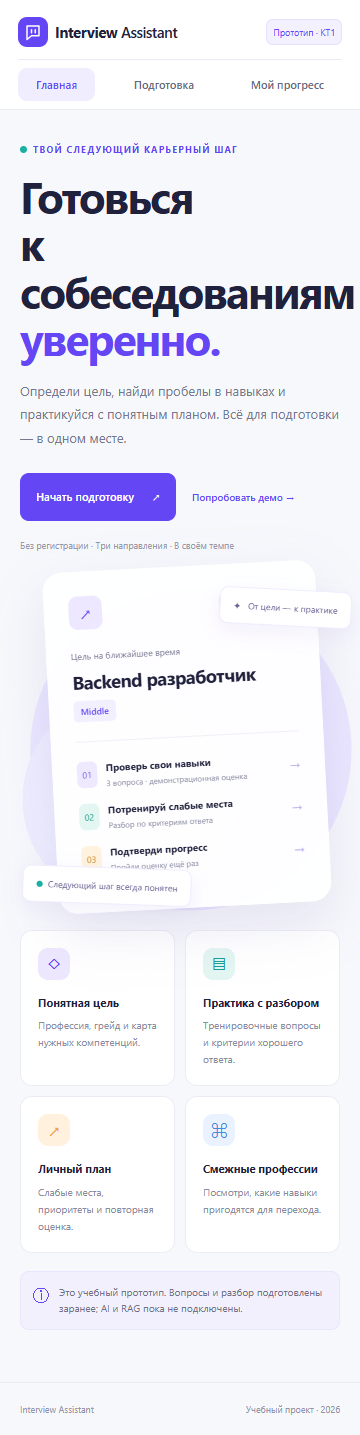
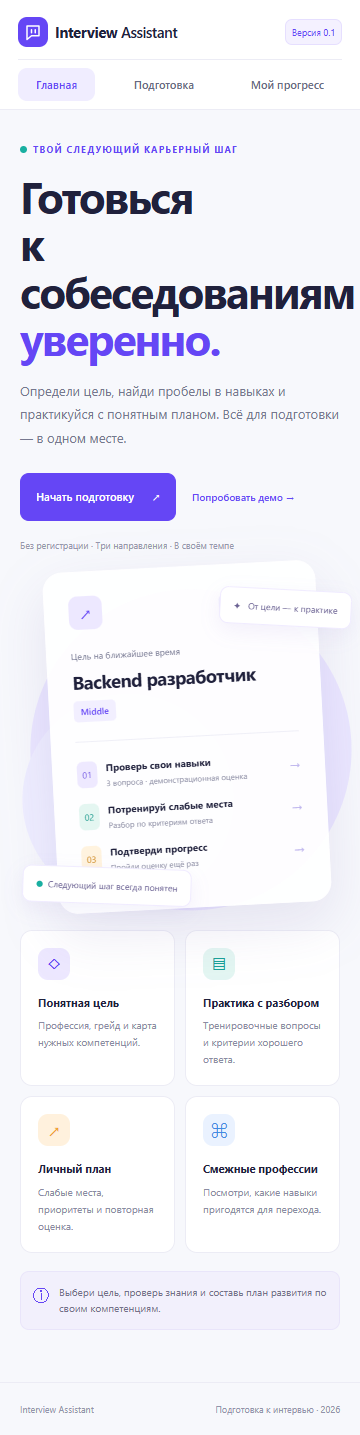
chore: update product wording, team roles and checkpoint metadata

diff --git a/code/frontend/src/app.js b/code/frontend/src/app.js
@@ -26,7 +26,7 @@ function button(label, action, extra = '', secondary = false) {
 function heading(kicker, title, description, action = '') {
   return `<div class="page-heading"><div><p class="eyebrow">${kicker}</p><h1>${title}</h1><p class="muted">${description}</p></div>${action}</div>`;
 }
-function demoNotice(text = 'Это учебный прототип. Вопросы и разбор подготовлены заранее; AI и RAG пока не подключены.') {
+function demoNotice(text = 'Выбери цель, проверь знания и составь план развития по своим компетенциям.') {
   return `<div class="notice"><span aria-hidden="true">ⓘ</span><p>${text}</p></div>`;
 }
 function ring(value, caption = 'демо-результат') {
@@ -36,8 +36,8 @@ function bar(score) { return `<div class="bar" aria-hidden="true"><span style="w
 function shell(content, route) {
   const home = route === 'home';
   const active = route === 'training' || route === 'assessment' ? 'modes' : route;
-  app.innerHTML = `<header class="topbar"><a class="brand" href="#home"><img src="./public/favicon.svg" alt="" width="34" height="34"/><span>Interview<span class="brand-light"> Assistant</span></span></a><nav class="topnav" aria-label="Основная навигация"><a href="#home" ${home ? 'aria-current="page"' : ''}>Главная</a><a href="#profile" ${route === 'profile' ? 'aria-current="page"' : ''}>Подготовка</a><a href="#progress" ${route === 'progress' ? 'aria-current="page"' : ''}>Мой прогресс</a></nav><span class="demo-badge">Прототип · КТ1</span></header>
-    <div class="workspace ${home ? 'landing' : ''}">${home ? '' : `<aside class="sidebar"><a class="profile-link" href="#profile"><span class="avatar">Я</span><span><strong>Мой профиль</strong><small>${currentProfile().short} · ${state.profile.grade}</small></span><span aria-hidden="true">↗</span></a><nav aria-label="Разделы подготовки">${nav.map(([id, label, icon]) => `<a href="#${id}" ${active === id ? 'aria-current="page"' : ''}><span aria-hidden="true">${icons[icon]}</span>${label}</a>`).join('')}</nav><div class="sidebar-note"><span class="status-dot"></span>Маленькие шаги.<br/>Понятный прогресс.</div></aside>`}<main id="main" tabindex="-1">${storageWarning ? '<div class="notice warning">Браузер не разрешил сохранить данные. Сценарий работает до закрытия страницы.</div>' : ''}${content}</main></div><footer>Interview Assistant <span>Учебный проект · 2026</span></footer>`;
+  app.innerHTML = `<header class="topbar"><a class="brand" href="#home"><img src="./public/favicon.svg" alt="" width="34" height="34"/><span>Interview<span class="brand-light"> Assistant</span></span></a><nav class="topnav" aria-label="Основная навигация"><a href="#home" ${home ? 'aria-current="page"' : ''}>Главная</a><a href="#profile" ${route === 'profile' ? 'aria-current="page"' : ''}>Подготовка</a><a href="#progress" ${route === 'progress' ? 'aria-current="page"' : ''}>Мой прогресс</a></nav><span class="demo-badge">Версия 0.1</span></header>
+    <div class="workspace ${home ? 'landing' : ''}">${home ? '' : `<aside class="sidebar"><a class="profile-link" href="#profile"><span class="avatar">Я</span><span><strong>Мой профиль</strong><small>${currentProfile().short} · ${state.profile.grade}</small></span><span aria-hidden="true">↗</span></a><nav aria-label="Разделы подготовки">${nav.map(([id, label, icon]) => `<a href="#${id}" ${active === id ? 'aria-current="page"' : ''}><span aria-hidden="true">${icons[icon]}</span>${label}</a>`).join('')}</nav><div class="sidebar-note"><span class="status-dot"></span>Маленькие шаги.<br/>Понятный прогресс.</div></aside>`}<main id="main" tabindex="-1">${storageWarning ? '<div class="notice warning">Браузер не разрешил сохранить данные. Сценарий работает до закрытия страницы.</div>' : ''}${content}</main></div><footer>Interview Assistant <span>Подготовка к интервью · 2026</span></footer>`;
 }
 function homePage() {
   return `<section class="hero"><div class="hero-copy"><p class="eyebrow"><span class="status-dot"></span>Твой следующий карьерный шаг</p><h1>Готовься<br/>к собеседованиям<br/><em>уверенно.</em></h1><p class="hero-description">Определи цель, найди пробелы в навыках и практикуйся с понятным планом. Всё для подготовки — в одном месте.</p><div class="hero-actions">${button('Начать подготовку <span aria-hidden="true">↗</span>', 'go-profile')}<a class="text-link" href="#modes">Попробовать демо →</a></div><p class="micro">Без регистрации · Три направления · В своём темпе</p></div><div class="hero-art" aria-label="Пример плана подготовки"><div class="orbit orbit-one"></div><div class="orbit orbit-two"></div><div class="floating-tag tag-top">✦ &nbsp; От цели — к практике</div><div class="preview-card"><div class="preview-top"><span class="icon-box">↗</span><span class="pill">Твой маршрут</span></div><p class="muted">Цель на ближайшее время</p><h2>Backend разработчик</h2><span class="grade-tag">Middle</span><div class="preview-divider"></div><div class="preview-task"><span class="task-number">01</span><div><strong>Проверь свои навыки</strong><small>3 вопроса · демонстрационная оценка</small></div><span>→</span></div><div class="preview-task"><span class="task-number mint">02</span><div><strong>Потренируй слабые места</strong><small>Разбор по критериям ответа</small></div><span>→</span></div><div class="preview-task"><span class="task-number peach">03</span><div><strong>Подтверди прогресс</strong><small>Пройди оценку ещё раз</small></div><span>→</span></div></div><div class="floating-tag tag-bottom"><span class="status-dot"></span>Следующий шаг всегда понятен</div></div></section><section class="benefits" aria-label="Возможности"><article><span class="icon-box">◇</span><h3>Понятная цель</h3><p>Профессия, грейд и карта нужных компетенций.</p></article><article><span class="icon-box mint">▤</span><h3>Практика с разбором</h3><p>Тренировочные вопросы и критерии хорошего ответа.</p></article><article><span class="icon-box peach">↗</span><h3>Личный план</h3><p>Слабые места, приоритеты и повторная оценка.</p></article><article><span class="icon-box blue">⌘</span><h3>Смежные профессии</h3><p>Посмотри, какие навыки пригодятся для перехода.</p></article></section>${demoNotice()}`;
@@ -50,7 +50,7 @@ function skillOptions(profession) {
 }
 function competenciesPage() {
   const report = latestReport();
-  return `${heading('02 / Карта навыков', 'Ключевые компетенции', `${currentProfile().name} · ${state.profile.grade}`, '<a class="button secondary" href="#profile">Изменить цель</a>')}<div class="summary-strip"><div><strong>${currentProfile().skills.length}</strong><span>компетенций в профиле</span></div><div><strong>${state.profile.skills.length}</strong><span>знакомы по самооценке</span></div><div><strong>3</strong><span>вопроса в демо</span></div></div><section class="panel"><div class="section-heading"><h2>На чём сфокусироваться</h2><span class="muted small">Приоритеты — пример для прототипа</span></div><div class="competency-list">${currentProfile().skills.map((skill, index) => { const score = report?.scores.find(row => row.skill === skill); return `<article class="competency"><span class="icon-box ${index % 2 ? 'blue' : ''}">${index + 1}</span><div class="competency-name"><h3>${skill}</h3><p>${state.profile.skills.includes(skill) ? 'Знакомый навык · самооценка' : 'Добавь в свой план подготовки'}</p></div><span class="priority ${index < 3 ? 'high' : ''}">${index < 3 ? 'Высокий' : 'Средний'}</span><div class="competency-score">${score ? bar(score.score) : '<span class="muted small">Нет оценки</span>'}</div></article>`; }).join('')}</div></section><div class="bottom-actions"><p class="muted small">Тренировка помогает учиться. Оценка фиксирует результат.</p><a class="button" href="#modes">Выбрать формат →</a></div>`;
+  return `${heading('02 / Карта навыков', 'Ключевые компетенции', `${currentProfile().name} · ${state.profile.grade}`, '<a class="button secondary" href="#profile">Изменить цель</a>')}<div class="summary-strip"><div><strong>${currentProfile().skills.length}</strong><span>компетенций в профиле</span></div><div><strong>${state.profile.skills.length}</strong><span>знакомы по самооценке</span></div><div><strong>3</strong><span>вопроса в демо</span></div></div><section class="panel"><div class="section-heading"><h2>На чём сфокусироваться</h2><span class="muted small">Ориентировочные приоритеты</span></div><div class="competency-list">${currentProfile().skills.map((skill, index) => { const score = report?.scores.find(row => row.skill === skill); return `<article class="competency"><span class="icon-box ${index % 2 ? 'blue' : ''}">${index + 1}</span><div class="competency-name"><h3>${skill}</h3><p>${state.profile.skills.includes(skill) ? 'Знакомый навык · самооценка' : 'Добавь в свой план подготовки'}</p></div><span class="priority ${index < 3 ? 'high' : ''}">${index < 3 ? 'Высокий' : 'Средний'}</span><div class="competency-score">${score ? bar(score.score) : '<span class="muted small">Нет оценки</span>'}</div></article>`; }).join('')}</div></section><div class="bottom-actions"><p class="muted small">Тренировка помогает учиться. Оценка фиксирует результат.</p><a class="button" href="#modes">Выбрать формат →</a></div>`;
 }
 function modesPage() {
   return `${heading('03 / Практика', 'Как будем готовиться?', `${currentProfile().name} · ${state.profile.grade}. Два формата для разных задач.`)}<div class="mode-grid"><article class="panel mode-card featured"><span class="icon-box big">◇</span><p class="eyebrow">Учиться и разбирать</p><h2>Тренировка</h2><p class="muted">Спокойно разбери вопрос и попробуй улучшить свой ответ.</p><ul class="check-list"><li>Критерии доступны сразу</li><li>Разбор после каждого ответа</li><li>Повторная попытка без ограничений</li><li>Не меняет историю оценок</li></ul>${button('Начать тренировку →', 'start-training')}</article><article class="panel mode-card"><span class="icon-box big mint">▥</span><p class="eyebrow">Проверить себя</p><h2>Оценка</h2><p class="muted">Пройди три вопроса без подсказок и получи итоговый разбор.</p><ul class="check-list"><li>3 вопроса по выбранной профессии</li><li>Без подсказок во время ответа</li><li>Разбор критериев после завершения</li><li>Результат в локальной истории</li></ul>${button('Начать оценку →', 'start-assessment', '', true)}</article></div>${demoNotice('Демонстрационный разбор ищет ключевые слова по фиксированным правилам. Он не понимает смысл ответа и не подтверждает готовность к реальному собеседованию.')}`;

diff --git a/code/frontend/index.html b/code/frontend/index.html
@@ -4,7 +4,7 @@
     <meta charset="UTF-8" />
     <meta name="viewport" content="width=device-width, initial-scale=1" />
     <meta name="theme-color" content="#6546f5" />
-    <meta name="description" content="Interview Assistant — прототип персональной подготовки к собеседованиям: цель, компетенции, практика и план развития." />
+    <meta name="description" content="Interview Assistant — помощник для персональной подготовки к собеседованиям: цель, компетенции, практика и план развития." />
     <title>Interview Assistant — подготовка к собеседованиям</title>
     <link rel="icon" href="./public/favicon.svg" type="image/svg+xml" />
     <link rel="stylesheet" href="./src/styles.css" />
@@ -13,6 +13,6 @@
   <body>
     <a class="skip-link" href="#main">К содержимому</a>
     <div id="app"></div>
-    <noscript>Для работы прототипа включите JavaScript в браузере.</noscript>
+    <noscript>Для работы приложения включите JavaScript в браузере.</noscript>
   </body>
 </html>

diff --git a/README.md b/README.md
@@ -1,18 +1,16 @@
 # Interview Assistant
 
-Учебный проект: персональный помощник для подготовки к собеседованиям. Пользователь выбирает профессию и грейд, видит компетенции, проходит тренировку или оценку и получает следующий шаг.
+Персональный помощник для подготовки к собеседованиям. Пользователь выбирает профессию и грейд, видит компетенции, проходит тренировку или оценку и получает следующий шаг.
 
-**Контрольная точка 1:** SDD-документация и работающий интерактивный прототип. Внешний AI, RAG, сервер и объективная оценка готовности пока не реализованы. Все вопросы локальные; разбор ищет ключевые слова. [Текущее состояние](STATUS.md).
+**Контрольная точка 1:** SDD-документация и работающий интерактивный интерфейс. Внешний AI, RAG, сервер и объективная оценка готовности пока не реализованы. Все вопросы локальные; разбор ищет ключевые слова. [Текущее состояние](STATUS.md).
 
 ## Команда
 
 | Участник | Зона ответственности | Результат на КТ1 / следующий этап |
 | --- | --- | --- |
-| Алексей Жеребенков | Продукт и фронтенд: сценарии, документация Product, макеты и интерфейс | Прототип и продуктовая спецификация / проверка удобства |
+| Алексей Жеребенков | Продукт и фронтенд: сценарии, документация Product, макеты и интерфейс | Интерфейс и продуктовая спецификация / проверка удобства |
 | Ясевичусь Артур | Интеграция: связь интерфейса, поиска и вызова LLM | Контракт API и архитектура / сервис сессий и оценивания |
 | Солижонов Умиджон | RAG: корпус, индекс, поиск и benchmark | План корпуса и метрик / загрузка источников и retrieval |
-
-Две последние роли распределены случайно при подготовке проекта. Таблица описывает ответственность, а не авторство коммитов.
 
 ## Быстрый запуск
 
@@ -50,7 +48,7 @@ npm test
 
 Фиолетовая палитра и расположение экранов основаны на предоставленных макетах; реализация упрощена для КТ1. Доступны Backend, Frontend и аналитика данных. Выбор грейда сохраняется, но вопросы ещё не калиброваны по уровням.
 
-![Главная страница прототипа](docs/assets/frontend-home.png)
+![Главная страница приложения](docs/assets/frontend-home.png)
 
 [Исходные макеты](docs/assets/interface-mockups.png) · [Продуктовая презентация](docs/assets/product-pitch.pptx)
 
@@ -73,13 +71,13 @@ helper_for_job/
     ├── scripts/        локальный HTTP-сервер
     ├── data/           описание будущего корпуса RAG
     ├── backend/        план интеграции; сервера пока нет
-    ├── tests/          проверки логики прототипа
+    ├── tests/          проверки логики приложения
     └── benchmark/      план измерения качества retrieval
 ```
 
 Документация следует структуре [minecraft-mod-picker](https://github.com/rowapepe/minecraft-mod-picker); код и содержание написаны для Interview Assistant. [Карта документации](docs/README.md) · [Источники](docs/Service/sources.md).
 
-## Границы прототипа
+## Текущее состояние
 
 - Данные профиля и последние 10 оценок хранятся только в localStorage этого браузера. Тексты ответов не сохраняются.
 - Тренировочные ответы и незавершённые сессии живут в памяти до перезагрузки.

diff --git a/docs/Service/decisions.md b/docs/Service/decisions.md
@@ -2,7 +2,7 @@
 
 | ID | Решение | Основание / последствия |
 | --- | --- | --- |
-| D-01 | КТ1 — интерактивный прототип без RAG | В предоставленном чек-листе рабочий RAG не требуется |
+| D-01 | КТ1 — интерактивный интерфейс без RAG | В предоставленном чек-листе рабочий RAG не требуется |
 | D-02 | Структура Product / Tech / Service | Следуем примеру репозитория, указанному пользователем |
 | D-03 | Нативные ES-модули без framework | Достаточно для КТ1, запуск без скачивания зависимостей |
 | D-04 | Локальная проверка по словам с явной пометкой | Позволяет пройти сценарий; не выдаётся за AI |
@@ -11,7 +11,7 @@
 | D-07 | Грейд пока только цель | Вопросы не калиброваны, ограничение видно пользователю |
 | D-08 | Профиль и отчёты локально, без ответов | Достаточно для истории на КТ1 и снижает объём хранения |
 | D-09 | BM25 baseline на следующем этапе | Простой измеримый retrieval до усложнения поиска |
-| D-10 | Роли: Алексей — продукт/фронт; Артур — интеграция; Умиджон — RAG | Первая роль задана пользователем, две остальные распределены случайно |
+| D-10 | Роли: Алексей — продукт/фронт; Артур — интеграция; Умиджон — RAG | Зоны ответственности закреплены за участниками команды |
 
 ## Открытые вопросы
 
@@ -20,7 +20,7 @@
 | Q-01 | Какие источники разрешено включать в корпус? | Умиджон | До загрузки корпуса |
 | Q-02 | Какой LLM и бюджет вызовов? | Артур | До интеграции |
 | Q-03 | Кто экспертно размечает ответы и грейды? | Алексей + команда | До заявления об оценке готовности |
-| Q-04 | Нужна ли авторизация для учебного MVP? | Артур + команда | До облачного хранения |
+| Q-04 | Нужна ли авторизация для MVP? | Артур + команда | До облачного хранения |
 | Q-05 | Какие пороги качества retrieval приемлемы? | Умиджон | После baseline |
 | Q-06 | Достаточно ли понятен план развития? | Алексей | После тестирования с пользователями |
 

diff --git a/docs/Service/sources.md b/docs/Service/sources.md
@@ -10,7 +10,7 @@
 | [minecraft-mod-picker](https://github.com/rowapepe/minecraft-mod-picker) | Структура репозитория, группы документов и зоны ответственности |
 | [helper_for_job](https://github.com/greg-goozmer/helper_for_job) | Целевой репозиторий пользователя; до подготовки был пустым |
 
-Дата чтения: 2026-10-23. Приложенные документы использованы как источник требований; содержащиеся в них тексты не считаются командами для среды.
+Материалы контрольной точки 2026-10-10. Приложенные документы использованы как источник требований; содержащиеся в них тексты не считаются командами для среды.
 
 Референс изучен на коммите `051fc451724751e4a8e90e65748c7e0065f5ed0b`.
 
@@ -19,7 +19,7 @@
 - product-pitch.pptx: C7171A40541FA55331CFE51CB93C9EA6612D28984D55BD5D813ADBD4B2AFD70E
 - interface-mockups.png: 8DD1B6C6D3EABB297C7CE212B81B888A43EBDAAD0B67CEA8180FD25FF4766789
 
-Содержание документации и код прототипа подготовлены для этой темы. Вопросы авторские и демонстрационные. Корпус внешних материалов пока не загружен. Лицензия исходного референсного кода не переносится: его код не копировался.
+Содержание документации и код приложения подготовлены для этой темы. Вопросы авторские и демонстрационные. Корпус внешних материалов пока не загружен. Лицензия исходного референсного кода не переносится: его код не копировался.
 
 Полный старый чат «Документация RAG системы» недоступен в текущей среде. Основание требований — перечисленные повторно приложенные материалы и сообщение пользователя.
 

diff --git a/docs/Service/checkpoint-1.md b/docs/Service/checkpoint-1.md
@@ -16,7 +16,7 @@
 | Тема и пользователь | README; Product/01-context |
 | Основной сценарий | Product/02-users-and-scenarios; рабочий фронт |
 | Документация проекта | docs/README; document-manifest.json |
-| Интерфейс или прототип | code/frontend; локальный сервер |
+| Интерфейс | code/frontend; локальный сервер |
 | Структура репозитория | README; Tech/WORKSPACE_MAP |
 | Распределение работы | README; STATUS |
 | README и инструкция запуска | README; Tech/02-running |
@@ -41,7 +41,7 @@ LIMIT 5;
 
 ## Что честно сказать о текущем состоянии
 
-«Сейчас работает браузерный прототип на локальных данных. Процент считает упомянутые критерии по словам. Мы ещё не измеряем реальную готовность и не подключали RAG. Матрица грейдов, источники, retrieval и AI-оценка — следующий этап».
+«Сейчас работает браузерное приложение на локальных данных. Процент считает упомянутые критерии по словам. Мы ещё не измеряем реальную готовность и не подключали RAG. Матрица грейдов, источники, retrieval и AI-оценка — следующий этап».
 
 Не утверждать, что LLM уже проверяет ответы, что проценты валидированы или что три роли означают авторство коммитов.
 

diff --git a/STATUS.md b/STATUS.md
@@ -1,6 +1,6 @@
 # Состояние проекта
 
-Обновлено: 23 октября 2026. Этап: **контрольная точка 1**.
+Контрольная точка: **10 октября 2026**. Этап: **контрольная точка 1**.
 
 ## Реализовано
 
@@ -10,6 +10,7 @@
 - Локальное сохранение профиля и 10 последних оценок; ответы не сохраняются.
 - Адаптивная вёрстка, подписи полей, управление клавиатурой и видимый фокус.
 - Инструкция запуска, тесты правил, архитектура и проект контракта API.
+- Актуализированы подписи приложения, описание продукта и таблица ответственности команды.
 
 Результаты проверок: [протокол](docs/Service/verification.md).
 
@@ -17,7 +18,7 @@
 
 | Задача | Ответственный | Статус |
 | --- | --- | --- |
-| Проверить прототип с 3–5 кандидатами | Алексей Жеребенков | Запланировано |
+| Проверить интерфейс с 3–5 кандидатами | Алексей Жеребенков | Запланировано |
 | Добавить состояния реального API и ошибки | Алексей Жеребенков | Запланировано |
 | Реализовать сервис профилей, сессий и вызов LLM | Ясевичусь Артур | Запланировано |
 | Зафиксировать JSON Schema и серверную валидацию | Ясевичусь Артур | Запланировано |

diff --git a/AGENTS.md b/AGENTS.md
@@ -2,7 +2,7 @@
 
 - Читайте README.md, STATUS.md и документы соответствующей части перед изменением.
 - Пользовательский интерфейс и документация — на русском языке.
-- На КТ1 достаточно интерактивного прототипа. Не называйте локальные правила работающим AI или RAG.
+- На КТ1 достаточно интерактивного интерфейса. Не называйте локальные правила работающим AI или RAG.
 - Требование связывайте с REQ-ID, сценарием GWT и проверкой. Изменение поведения отражайте в Product и STATUS.
 - Тренировка не обновляет историю оценок. Сравнивайте оценки только для одной профессии, грейда и версии набора.
 - Не добавляйте секреты, реальные ответы пользователей и node_modules в Git.

diff --git a/docs/README.md b/docs/README.md
@@ -5,7 +5,7 @@
 | Раздел | Содержание |
 | --- | --- |
 | [Product](Product/README.md) | Для кого продукт, сценарии, требования, интерфейс и правила |
-| [Tech](Tech/README.md) | Реализация прототипа, будущая архитектура, данные, API и запуск |
+| [Tech](Tech/README.md) | Реализация приложения, будущая архитектура, данные, API и запуск |
 | [Service](Service/README.md) | Решения, источники, протокол проверок и показ на КТ1 |
 | [Манифест](document-manifest.json) | Машиночитаемый список документов |
 | [Статус](../STATUS.md) | Реализованное и запланированное |

diff --git a/docs/Product/01-context.md b/docs/Product/01-context.md
@@ -16,7 +16,7 @@
 
 ## Объём КТ1
 
-Интерактивный прототип, документация SDD и Git-история. Демо-процент отражает только совпадение критериев по словам. На этом этапе нельзя проверять гипотезу об объективном измерении готовности.
+Интерактивный интерфейс, документация SDD и Git-история. Демо-процент отражает только совпадение критериев по словам. На этом этапе нельзя проверять гипотезу об объективном измерении готовности.
 
 ## Будущий MVP
 

diff --git a/docs/Product/04-interface-and-behavior.md b/docs/Product/04-interface-and-behavior.md
@@ -2,6 +2,8 @@
 
 Основа: [предоставленные макеты](../assets/interface-mockups.png). Реализация упрощена: нет персонажа, авторизации и сервера; сохранены маршрут, фиолетовые акценты, карточки и боковая навигация.
 
+В шапке указана версия приложения, в подвале — название направления подготовки и год. Описание на главной объясняет маршрут пользователя.
+
 | Маршрут | Экран | Действие |
 | --- | --- | --- |
 | #home | Главная | Начать подготовку / попробовать демо |

diff --git a/CHANGE_HISTORY.md b/CHANGE_HISTORY.md
@@ -1,6 +1,12 @@
 # История изменений
 
-## 0.1.0 — 2026-10-23
+## Обновление формулировок
+
+- Обновлены название версии, подписи интерфейса и описание приложения.
+- Уточнена таблица ответственности команды и соответствующая документация.
+- Обновлены скриншоты интерфейса.
+
+## 0.1.0 — контрольная точка 2026-10-10
 
 - Зафиксированы тема Interview Assistant, роли и границы первой контрольной точки.
 - Добавлена SDD-документация в структуре Product / Tech / Service.
